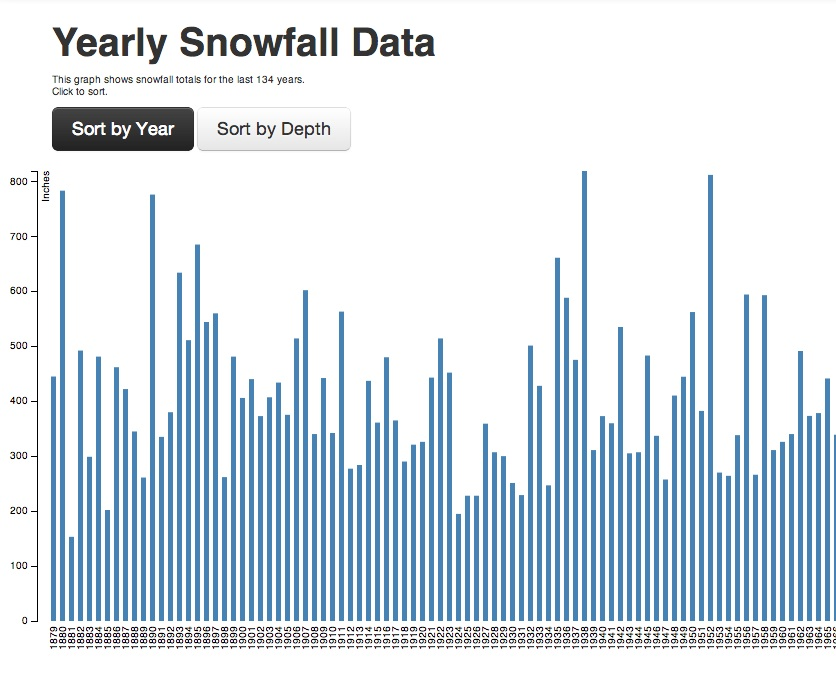
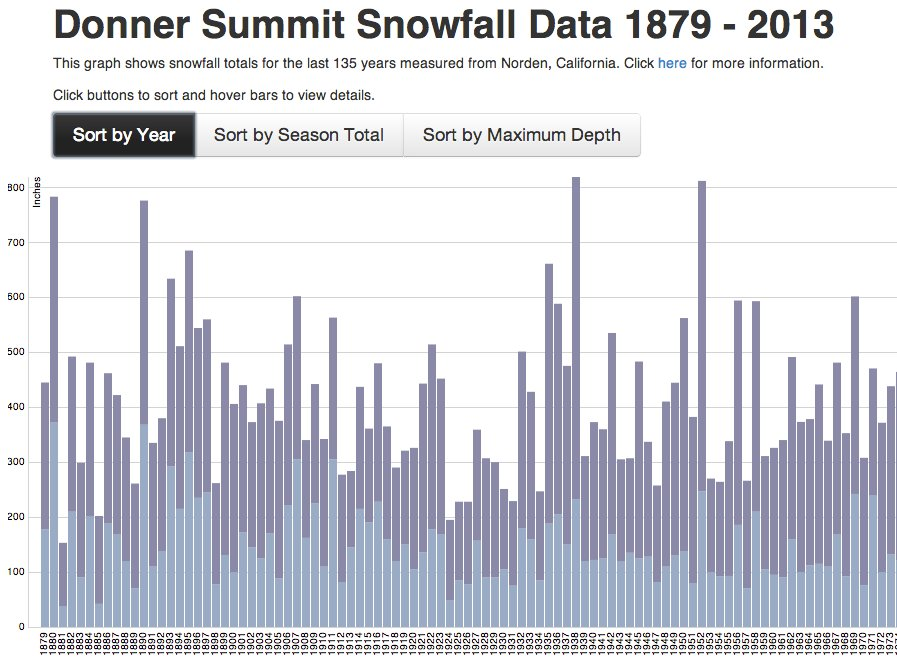
minor touchups

diff --git a/snowfall/index.html b/snowfall/index.html
@@ -101,26 +101,29 @@
     </div>
 
     <div class="container">
-      <h1>Central Sierra Yearly Snowfall Data</h1>
+      <h1>Donner Summit Snowfall Data 1879 - 2013</h1>
       
       <!-- Modal -->
 		<div id="myModal" class="modal hide fade" tabindex="-1" role="dialog" aria-labelledby="myModalLabel" aria-hidden="true">
 		  <div class="modal-header">
 			<button type="button" class="close" data-dismiss="modal" aria-hidden="true">×</button>
-			<h3 id="myModalLabel">Historical Snowfall</h3>
+			<h3 id="myModalLabel">Central Sierra Snowfall</h3>
 		  </div>
 		  <div class="modal-body">
-			<p>This is an interactive visualization of the total snowfall and maximum snow depth for the last 135 years. The data was compiled
-			by <a href="research.chance.berkeley.edu">Central Sierra Snow Laboratory</a>, with data from 1879-1945 and 1953-1957 collected by 
+			<p>This is an interactive visualization of the total snowfall and maximum snow depth for the last 135 years. Hover over bars
+			to view the values for each year and click the buttons to adjust sorting options.</p> 
+			<p>The data was compiled
+			by <a href="http://research.chance.berkeley.edu" target="_blank">Central Sierra Snow Laboratory</a>, with data from 1879-1945 
+			and 1953-1957 collected by 
 			Southern Pacific Railroad, and data from 1946-1952 and 1958-2013 collected by Central Sierra Snow Laboratory.</p>
-			<p>The graph and interactions are created using <a href="http://d3js.org">D3</a> and the page employs Twitter Bootstrap for design.
+			<p>The graph and interactions are created using <a href="http://d3js.org" target="_blank">D3</a>.
 		  </div>
 		  <div class="modal-footer">
 			<button class="btn" data-dismiss="modal" aria-hidden="true">Close</button>
 		  </div>
 		</div>
       <div class="description">
-	      <p>This graph shows snowfall totals for the last 135 years measured from Norden, California. Click <a href="#" onclick="$('#myModal').modal();">here</a> for more information.<br><br> Click buttons to sort and hover to view data.</p>
+	      <p>This graph shows snowfall totals for the last 135 years measured from Norden, California. Click <a href="#" onclick="$('#myModal').modal();">here</a> for more information.<br><br>Click buttons to sort and hover bars to view details.</p>
 	  </div>
     </div>
     
